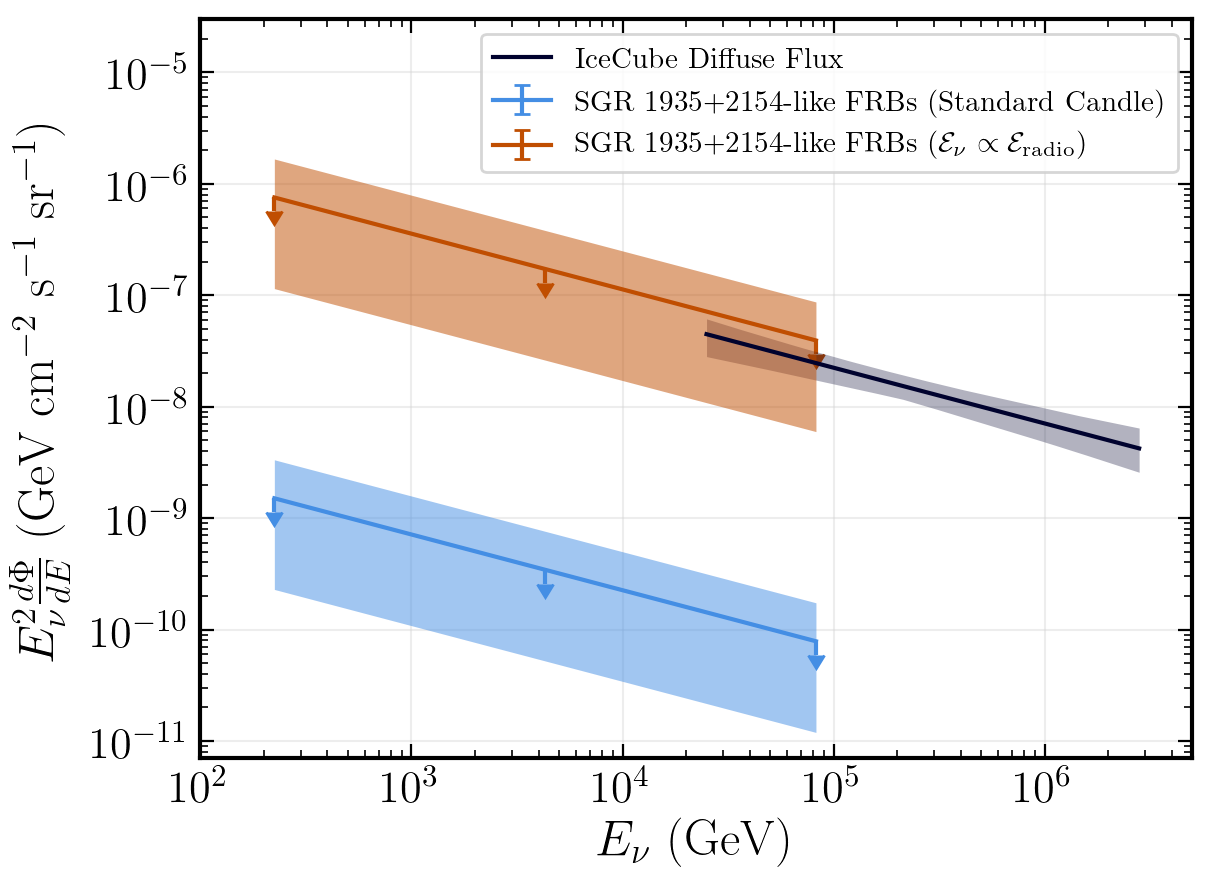
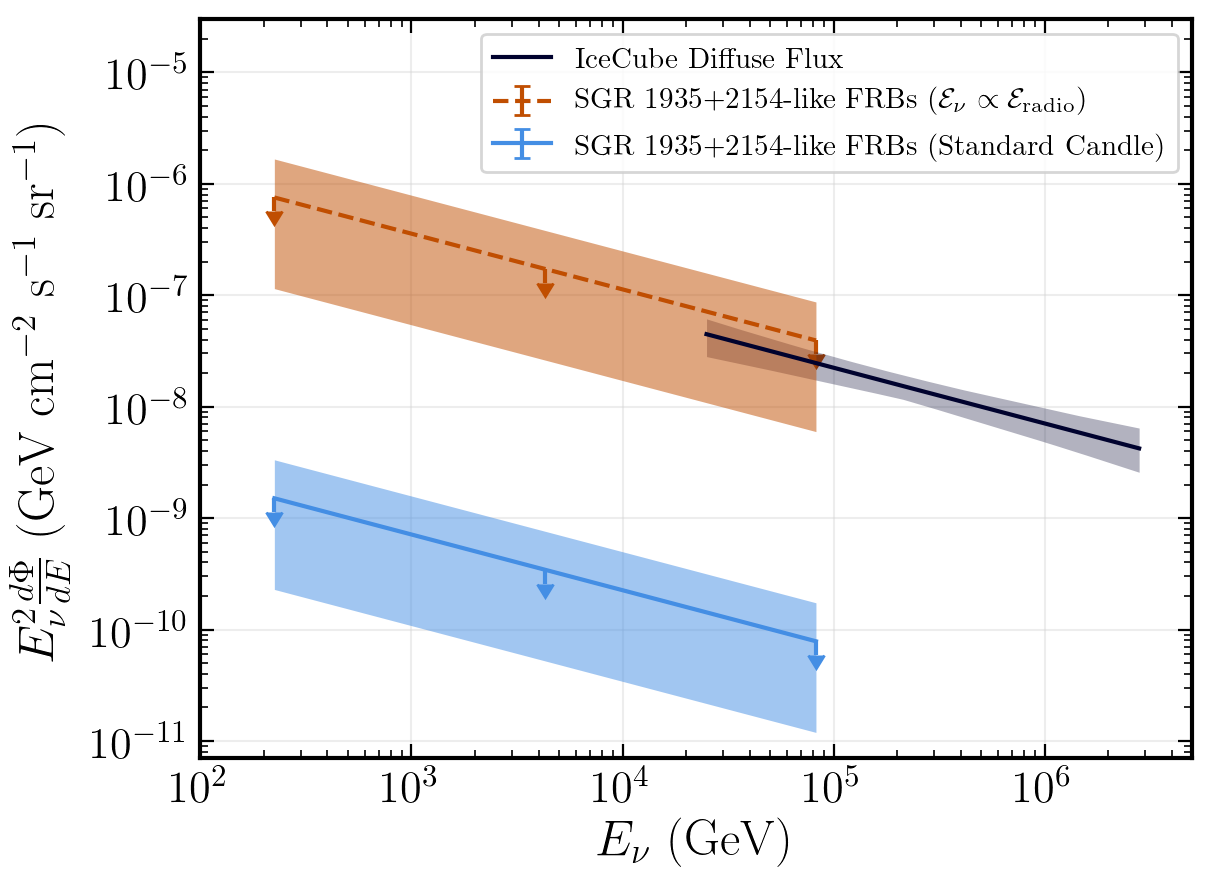
Small cosmetic paper tweaks

Changed region(s): [[0.3969, 0.0908, 0.9464, 0.1816]]

diff --git a/examples/FRB_population_limits.py b/examples/FRB_population_limits.py
@@ -86,8 +86,8 @@ scaled_lim_dicts['flux_norm_lim'] *= non_standard_candle_fac
 
 limits = [
     ("Standard Candle, $E^{-2}$", lim_dicts[2.0]['flux_norm_lim'], e_pdf_dicts[2.0]),
-    ("SGR 1935+2154-like FRBs (Standard Candle)", lim_dicts[2.5]['flux_norm_lim'], e_pdf_dicts[2.5]),
-    ("SGR 1935+2154-like FRBs " + r'($\mathcal{E}_{\nu}\propto \mathcal{E}_{\mathrm{radio}}$)', scaled_lim_dicts['flux_norm_lim'], e_pdf_dicts[2.5])
+    ("SGR 1935+2154-like FRBs " + r'($\mathcal{E}_{\nu}\propto \mathcal{E}_{\mathrm{radio}}$)', scaled_lim_dicts['flux_norm_lim'], e_pdf_dicts[2.5]),
+    ("SGR 1935+2154-like FRBs (Standard Candle)", lim_dicts[2.5]['flux_norm_lim'], e_pdf_dicts[2.5])
 ]
 
 fit = "joint_15"
@@ -108,7 +108,7 @@ def frb_rate_high(z):
 def frb_rate_low(z):
     return frb_rate(z) * (7.23-6.13) / 7.23
 
-cols = [sns.xkcd_rgb['dark sky blue'], sns.xkcd_rgb['burnt orange']]
+cols = [sns.xkcd_rgb['burnt orange'], sns.xkcd_rgb['dark sky blue']]
 counter = 0
 
 for label, mean_flux_norm_lim, e_pdf_dict in limits[1:]:
@@ -132,8 +132,12 @@ for label, mean_flux_norm_lim, e_pdf_dict in limits[1:]:
     )
     high_rate_fl = high_rate_integrated.value*np.power(ens, -1.*e_pdf_dict['gamma'])*ens**2.
     
+    if label == 'SGR 1935+2154-like FRBs (Standard Candle)':
+        linestyle = 'solid'
+    else:
+        linestyle = 'dashed'
     plt.errorbar(ens, fluxes, yerr=0.25*fluxes, uplims=True, 
-                 label=label, color=cols[counter], zorder=2)
+                 label=label, color=cols[counter], zorder=2, linestyle=linestyle)
     plt.fill_between(ens, low_rate_fl, high_rate_fl, alpha=0.5, linewidth=0.,
                     color=cols[counter], zorder=3)
     counter += 1
